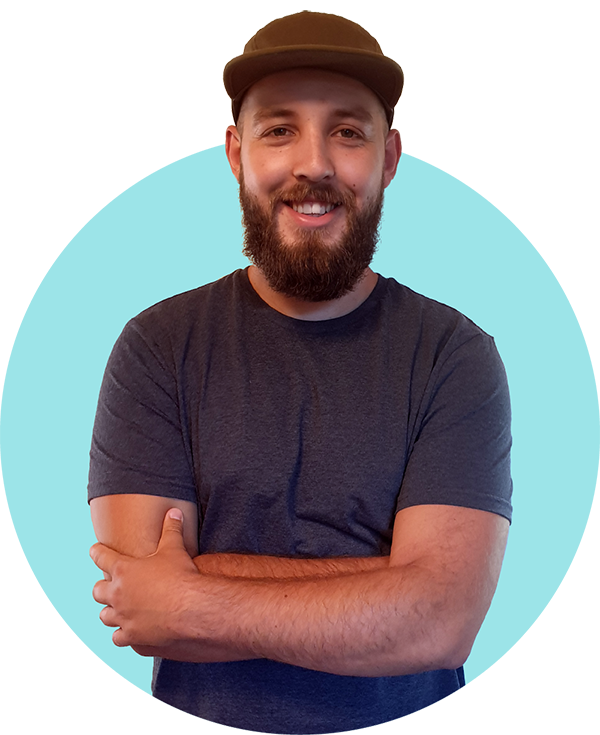
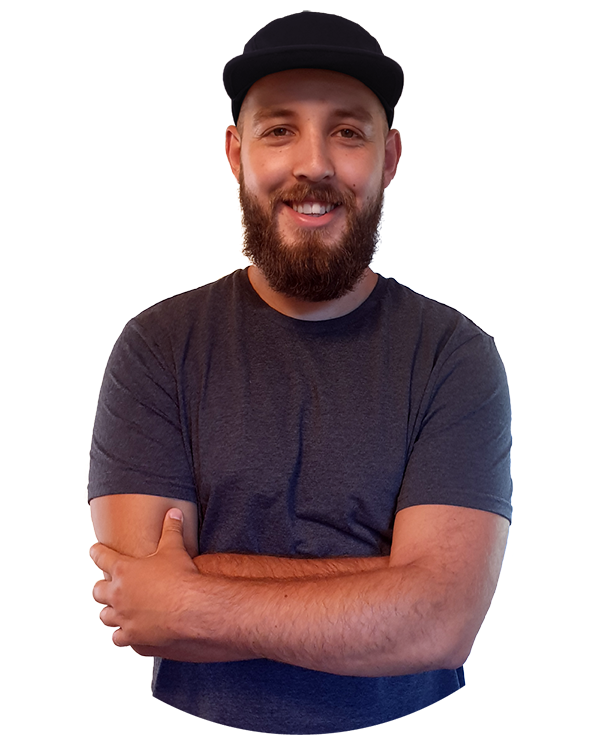
More stuff

Changed region(s): [[0.0, 0.1796, 0.42, 0.9578], [0.6, 0.2095, 1.0, 0.9279], [0.36, 0.0, 0.69, 0.1796]]

diff --git a/css/main.css b/css/main.css
@@ -1,1 +1,1 @@
-html,body,div,span,applet,object,iframe,h1,h2,h3,h4,h5,h6,p,blockquote,pre,a,abbr,acronym,address,big,cite,code,del,dfn,em,img,ins,kbd,q,s,samp,small,strike,strong,sub,sup,tt,var,b,u,i,center,dl,dt,dd,ol,ul,li,fieldset,form,label,legend,table,caption,tbody,tfoot,thead,tr,th,td,article,aside,canvas,details,embed,figure,figcaption,footer,header,hgroup,menu,nav,output,ruby,section,summary,time,mark,audio,video{margin:0;padding:0;border:0;font-size:100%;font:inherit;vertical-align:baseline;scroll-behavior:smooth}:focus{outline:0}article,aside,details,figcaption,figure,footer,header,hgroup,menu,nav,section{display:block}body{line-height:1}ol,ul{list-style:none}blockquote,q{quotes:none}blockquote:before,blockquote:after,q:before,q:after{content:'';content:none}table{border-collapse:collapse;border-spacing:0}input[type=search]::-webkit-search-cancel-button,input[type=search]::-webkit-search-decoration,input[type=search]::-webkit-search-results-button,input[type=search]::-webkit-search-results-decoration{-webkit-appearance:none;-moz-appearance:none}input[type=search]{-webkit-appearance:none;-moz-appearance:none;-webkit-box-sizing:content-box;-moz-box-sizing:content-box;box-sizing:content-box}textarea{overflow:auto;vertical-align:top;resize:vertical}audio,canvas,video{display:inline-block;*display:inline;*zoom:1;max-width:100%}audio:not([controls]){display:none;height:0}[hidden]{display:none}html{font-size:100%;-webkit-text-size-adjust:100%;-ms-text-size-adjust:100%}a:focus{outline:thin dotted}a:active,a:hover{outline:0}img{border:0;-ms-interpolation-mode:bicubic}figure{margin:0}form{margin:0}fieldset{border:1px solid #c0c0c0;margin:0 2px;padding:0.35em 0.625em 0.75em}legend{border:0;padding:0;white-space:normal;*margin-left:-7px}button,input,select,textarea{font-size:100%;margin:0;vertical-align:baseline;*vertical-align:middle}button,input{line-height:normal}button,select{text-transform:none}button,html input[type="button"],input[type="reset"],input[type="submit"]{-webkit-appearance:button;cursor:pointer;*overflow:visible}button[disabled],html input[disabled]{cursor:default}input[type="checkbox"],input[type="radio"]{box-sizing:border-box;padding:0;*height:13px;*width:13px}input[type="search"]{-webkit-appearance:textfield;-moz-box-sizing:content-box;-webkit-box-sizing:content-box;box-sizing:content-box}input[type="search"]::-webkit-search-cancel-button,input[type="search"]::-webkit-search-decoration{-webkit-appearance:none}button::-moz-focus-inner,input::-moz-focus-inner{border:0;padding:0}textarea{overflow:auto;vertical-align:top}table{border-collapse:collapse;border-spacing:0}html,button,input,select,textarea{color:#222}::-moz-selection{background:#b3d4fc;text-shadow:none}::selection{background:#b3d4fc;text-shadow:none}img{vertical-align:middle}fieldset{border:0;margin:0;padding:0}textarea{resize:vertical}.chromeframe{margin:0.2em 0;background:#ccc;color:#000;padding:0.2em 0}h1{color:#111;font-family:"Roboto Mono",Arial;font-size:40px;font-weight:bold;line-height:1.5;margin-bottom:10px}@media (min-width: 600px){h1{font-size:60px}}h2{color:#111;font-family:"Roboto Mono",Arial;font-size:25px;font-weight:normal;line-height:1.5;margin-bottom:10px}@media (min-width: 600px){h2{font-size:35px}}h3{color:#111;font-family:"Roboto Mono",Arial;font-size:18px;font-weight:normal;line-height:1.5;margin-bottom:25px}@media (min-width: 600px){h3{font-size:22px}}p{color:#111;font-family:"Roboto Mono",Arial;font-size:14px;font-weight:normal;line-height:1.75;margin-bottom:12px}@media (min-width: 600px){p{font-size:16px}}p.is-title{opacity:0.6}.push-bottom{margin-bottom:40px}.is-white{color:#fff}.is-secondary{color:#9ce4e8}.carousel{width:100%}.item{align-items:center;display:flex;justify-content:center;margin-bottom:20px}.container{width:auto;margin:0;padding:0 40px}@media (min-width: 600px){.container{padding:0 60px}}.container__inner{width:100%;max-width:1200px;margin:0 auto;padding:40px 0;height:100%}@media (min-width: 600px){.container__inner{padding:60px 0}}.container__inner.has-no-padding{padding:0}.container.is-home{background:#06636d;min-height:calc(var(--vh, 1vh) * 100);display:flex;align-items:center}.container.is-intro{min-height:calc(var(--vh, 1vh) * 100);display:flex;align-items:center}.container.is-about{min-height:calc(var(--vh, 1vh) * 100)}.container.is-portfolio{min-height:calc(var(--vh, 1vh) * 100);background:#eaeaea;display:flex;align-items:center}.container.is-contact{background:#06636d;display:flex;align-items:center}.section-home{display:grid;grid-template-columns:1fr;grid-template-rows:auto;grid-gap:40px;align-items:center}@media (min-width: 600px){.section-home{grid-template-columns:1fr 1fr;grid-gap:60px}}.nav{width:100%;position:absolute;top:0;height:50px;display:flex;align-items:center;justify-content:flex-end}.flex-center{display:flex;justify-content:center}.slider{width:100%;height:5px;background:#eaeaea;border-radius:5px;margin-bottom:15px}.slider:last-of-type{margin-bottom:0}.level{background:#06636d;height:5px;border-radius:5px}.level.is-75{width:75%}.level.is-85{width:85%}.level.is-90{width:90%}.level.is-95{width:95%}.experience{display:flex;justify-content:space-between}.social-container{display:flex;align-items:center;justify-content:flex-start}@media (min-width: 600px){.social-container{justify-content:flex-end}}.social-inner{display:flex;width:100%;max-width:100%;justify-content:space-between}@media (min-width: 600px){.social-inner{max-width:300px}}.social-icon{width:45px;height:45px;border-radius:45px;background:#111;color:white;display:flex;justify-content:center;align-items:center;text-decoration:none}.social-icon svg{fill:#ffffff;width:20px;height:20px}.header{display:grid;grid-template-columns:1fr;grid-template-rows:auto;padding:30px 0;grid-gap:30px}@media (min-width: 600px){.header{grid-template-columns:1fr 1fr}}.header__links{display:flex;flex-direction:row;justify-content:space-between;align-items:center;font-family:Arial, sans-serif}
+html,body,div,span,applet,object,iframe,h1,h2,h3,h4,h5,h6,p,blockquote,pre,a,abbr,acronym,address,big,cite,code,del,dfn,em,img,ins,kbd,q,s,samp,small,strike,strong,sub,sup,tt,var,b,u,i,center,dl,dt,dd,ol,ul,li,fieldset,form,label,legend,table,caption,tbody,tfoot,thead,tr,th,td,article,aside,canvas,details,embed,figure,figcaption,footer,header,hgroup,menu,nav,output,ruby,section,summary,time,mark,audio,video{margin:0;padding:0;border:0;font-size:100%;font:inherit;vertical-align:baseline;scroll-behavior:smooth}:focus{outline:0}article,aside,details,figcaption,figure,footer,header,hgroup,menu,nav,section{display:block}body{line-height:1}ol,ul{list-style:none}blockquote,q{quotes:none}blockquote:before,blockquote:after,q:before,q:after{content:'';content:none}table{border-collapse:collapse;border-spacing:0}input[type=search]::-webkit-search-cancel-button,input[type=search]::-webkit-search-decoration,input[type=search]::-webkit-search-results-button,input[type=search]::-webkit-search-results-decoration{-webkit-appearance:none;-moz-appearance:none}input[type=search]{-webkit-appearance:none;-moz-appearance:none;-webkit-box-sizing:content-box;-moz-box-sizing:content-box;box-sizing:content-box}textarea{overflow:auto;vertical-align:top;resize:vertical}audio,canvas,video{display:inline-block;*display:inline;*zoom:1;max-width:100%}audio:not([controls]){display:none;height:0}[hidden]{display:none}html{font-size:100%;-webkit-text-size-adjust:100%;-ms-text-size-adjust:100%}a:focus{outline:thin dotted}a:active,a:hover{outline:0}img{border:0;-ms-interpolation-mode:bicubic}figure{margin:0}form{margin:0}fieldset{border:1px solid #c0c0c0;margin:0 2px;padding:0.35em 0.625em 0.75em}legend{border:0;padding:0;white-space:normal;*margin-left:-7px}button,input,select,textarea{font-size:100%;margin:0;vertical-align:baseline;*vertical-align:middle}button,input{line-height:normal}button,select{text-transform:none}button,html input[type="button"],input[type="reset"],input[type="submit"]{-webkit-appearance:button;cursor:pointer;*overflow:visible}button[disabled],html input[disabled]{cursor:default}input[type="checkbox"],input[type="radio"]{box-sizing:border-box;padding:0;*height:13px;*width:13px}input[type="search"]{-webkit-appearance:textfield;-moz-box-sizing:content-box;-webkit-box-sizing:content-box;box-sizing:content-box}input[type="search"]::-webkit-search-cancel-button,input[type="search"]::-webkit-search-decoration{-webkit-appearance:none}button::-moz-focus-inner,input::-moz-focus-inner{border:0;padding:0}textarea{overflow:auto;vertical-align:top}table{border-collapse:collapse;border-spacing:0}html,button,input,select,textarea{color:#222}::-moz-selection{background:#b3d4fc;text-shadow:none}::selection{background:#b3d4fc;text-shadow:none}img{vertical-align:middle}fieldset{border:0;margin:0;padding:0}textarea{resize:vertical}.chromeframe{margin:0.2em 0;background:#ccc;color:#000;padding:0.2em 0}h1{color:#111;font-family:"Roboto Mono",Arial;font-size:40px;font-weight:bold;line-height:1.5;margin-bottom:10px}@media (min-width: 600px){h1{font-size:60px}}h2{color:#111;font-family:"Roboto Mono",Arial;font-size:25px;font-weight:normal;line-height:1.5;margin-bottom:10px}@media (min-width: 600px){h2{font-size:35px}}h3{color:#111;font-family:"Roboto Mono",Arial;font-size:18px;font-weight:normal;line-height:1.5;margin-bottom:25px}@media (min-width: 600px){h3{font-size:22px}}p{color:#111;font-family:"Roboto Mono",Arial;font-size:14px;font-weight:normal;line-height:1.75;margin-bottom:12px}@media (min-width: 600px){p{font-size:16px}}p.is-title{opacity:0.6}.push-bottom{margin-bottom:40px}.is-white{color:#fff}.is-secondary{color:#856aac}.is-tertiary{color:#dac2ff}.carousel{width:100%}.item{align-items:center;display:flex;justify-content:center;margin-bottom:20px}.container{width:auto;margin:0;padding:0 40px}@media (min-width: 600px){.container{padding:0 60px}}.container__inner{width:100%;max-width:1200px;margin:0 auto;padding:40px 0;height:100%}@media (min-width: 600px){.container__inner{padding:60px 0}}.container__inner.has-no-padding{padding:0}.container.is-home{background:#4c388d;background:linear-gradient(45deg, #4c388d 0%, #856aac 100%);min-height:calc(var(--vh, 1vh) * 100);display:flex;align-items:center}.container.is-intro{min-height:calc(var(--vh, 1vh) * 100);display:flex;align-items:center}.container.is-about{min-height:calc(var(--vh, 1vh) * 100)}.container.is-portfolio{min-height:calc(var(--vh, 1vh) * 100);background:#eaeaea;display:flex;align-items:center}.container.is-contact{background:#4c388d;display:flex;align-items:center}.section-home{display:grid;grid-template-columns:1fr;grid-template-rows:auto;grid-gap:40px;align-items:center}@media (min-width: 600px){.section-home{grid-template-columns:1fr 1fr;grid-gap:60px}}.nav{width:100%;position:absolute;top:0;height:50px;display:flex;align-items:center;justify-content:flex-end}.flex-center{display:flex;justify-content:center}.slider{width:100%;height:5px;background:#eaeaea;border-radius:5px;margin-bottom:15px}.slider:last-of-type{margin-bottom:0}.level{background:#4c388d;height:5px;border-radius:5px}.level.is-75{width:75%}.level.is-85{width:85%}.level.is-90{width:90%}.level.is-95{width:95%}.experience{display:flex;justify-content:space-between}.social-container{display:flex;align-items:center;justify-content:flex-start}@media (min-width: 600px){.social-container{justify-content:flex-end}}.social-inner{display:flex;width:100%;max-width:100%;justify-content:space-between}@media (min-width: 600px){.social-inner{max-width:300px}}.social-icon{width:45px;height:45px;border-radius:45px;background:#856aac;color:white;display:flex;justify-content:center;align-items:center;text-decoration:none}.social-icon svg{fill:#fff;width:20px;height:20px}.header{display:grid;grid-template-columns:1fr;grid-template-rows:auto;padding:30px 0;grid-gap:30px}@media (min-width: 600px){.header{grid-template-columns:1fr 1fr}}.header__links{display:flex;flex-direction:row;justify-content:space-between;align-items:center;font-family:Arial, sans-serif}

diff --git a/scss/layout/_page-containers.scss b/scss/layout/_page-containers.scss
@@ -25,7 +25,8 @@
     }
 
     &.is-home {
-        background:$color-primary;
+        background: $color-primary;
+        background: linear-gradient(45deg, $color-primary 0%, $color-secondary 100%);
         min-height: calc(var(--vh, 1vh) * 100);
         display: flex;
         align-items: center;
@@ -147,7 +148,7 @@
     width: 45px;
     height: 45px;
     border-radius: 45px;
-    background: $color-black;
+    background: $color-secondary;
     color: white;
     display: flex;
     justify-content: center;
@@ -155,7 +156,7 @@
     text-decoration: none;
 
     svg {
-        fill: #ffffff;
+        fill: $color-white;
         width: 20px;
         height: 20px;
     }

diff --git a/index.html b/index.html
@@ -31,7 +31,7 @@
         <div class="section-home">
             <div class="is-white">
                 <h1 class="is-white">Hi I'm James</h1>
-                <h3 class="is-secondary">I am a UI & Web Designer</h3>
+                <h3 class="is-tertiary">I am a UI & Web Designer</h3>
                 <p class="is-white">I have been working as a designer since 2014, starting out as an apprentice, I learned my trade working for a small agency, gaining experience and a qualification in Graphic Design. Over the last 6 years I have progressed and honed my skills to specialise in UI & Web Design.</p>
             </div>
             <div class="flex-center">

diff --git a/scss/base/_variables.scss b/scss/base/_variables.scss
@@ -1,5 +1,6 @@
-$color-primary: #06636d;
-$color-secondary: #9ce4e8;
+$color-primary: #4c388d;
+$color-secondary: #856aac;
+$color-tertiary: #dac2ff;
 $color-black: #111111;
 $color-white: #FFFFFF;
 $sans: 'Roboto Mono', Arial;

diff --git a/scss/base/_helpers.scss b/scss/base/_helpers.scss
@@ -9,3 +9,7 @@
 .is-secondary {
     color: $color-secondary;
 }
+
+.is-tertiary {
+    color: $color-tertiary;
+}
